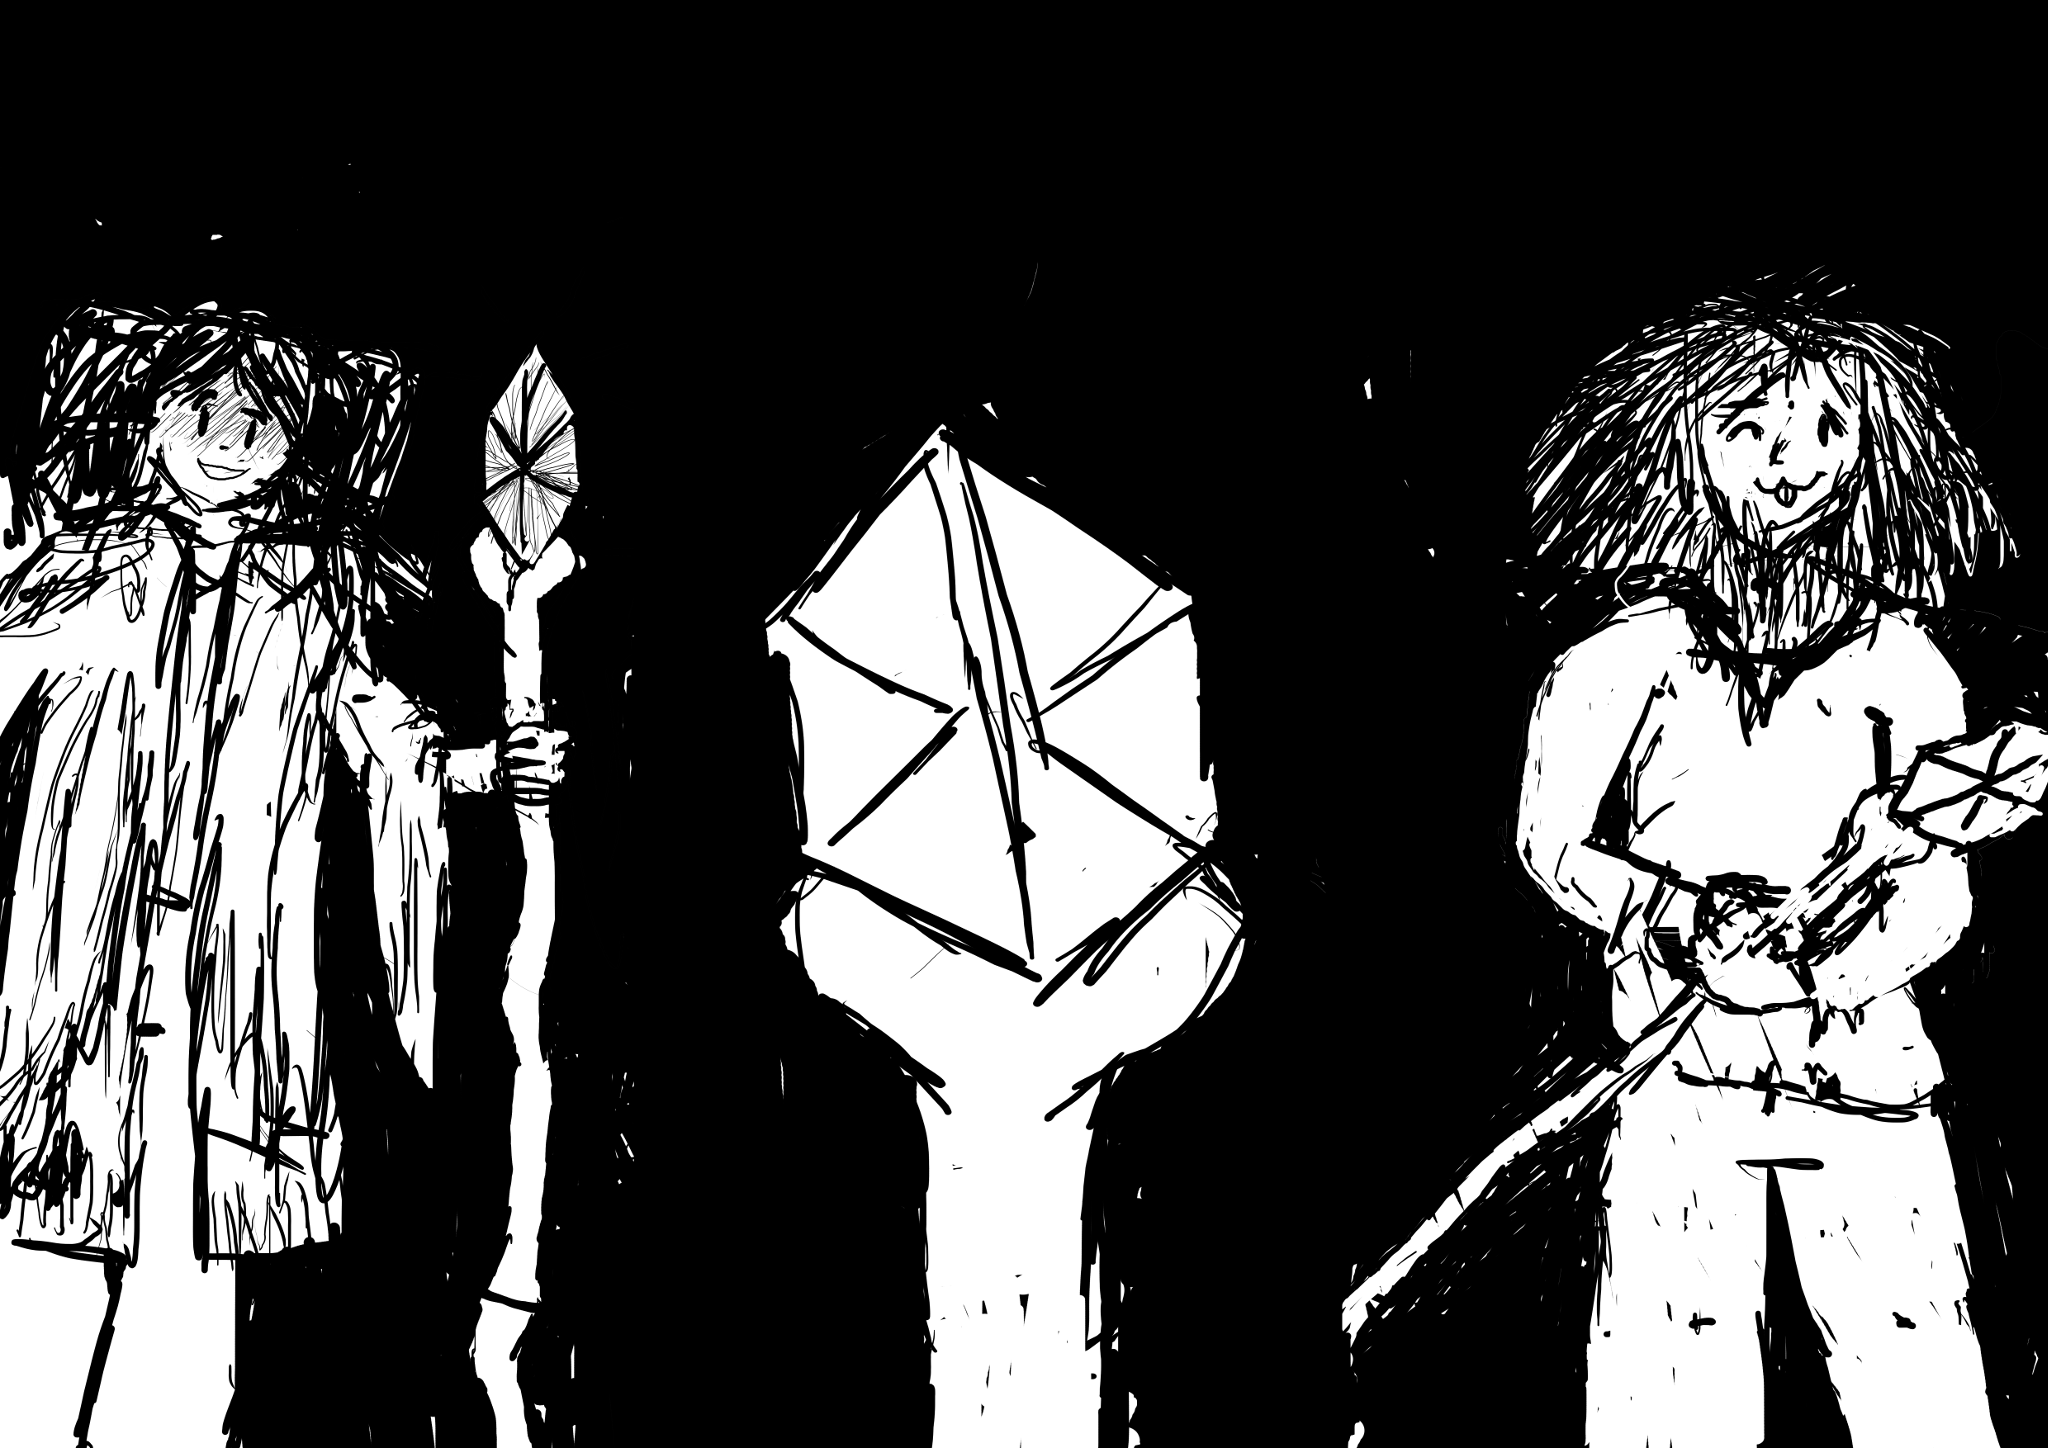
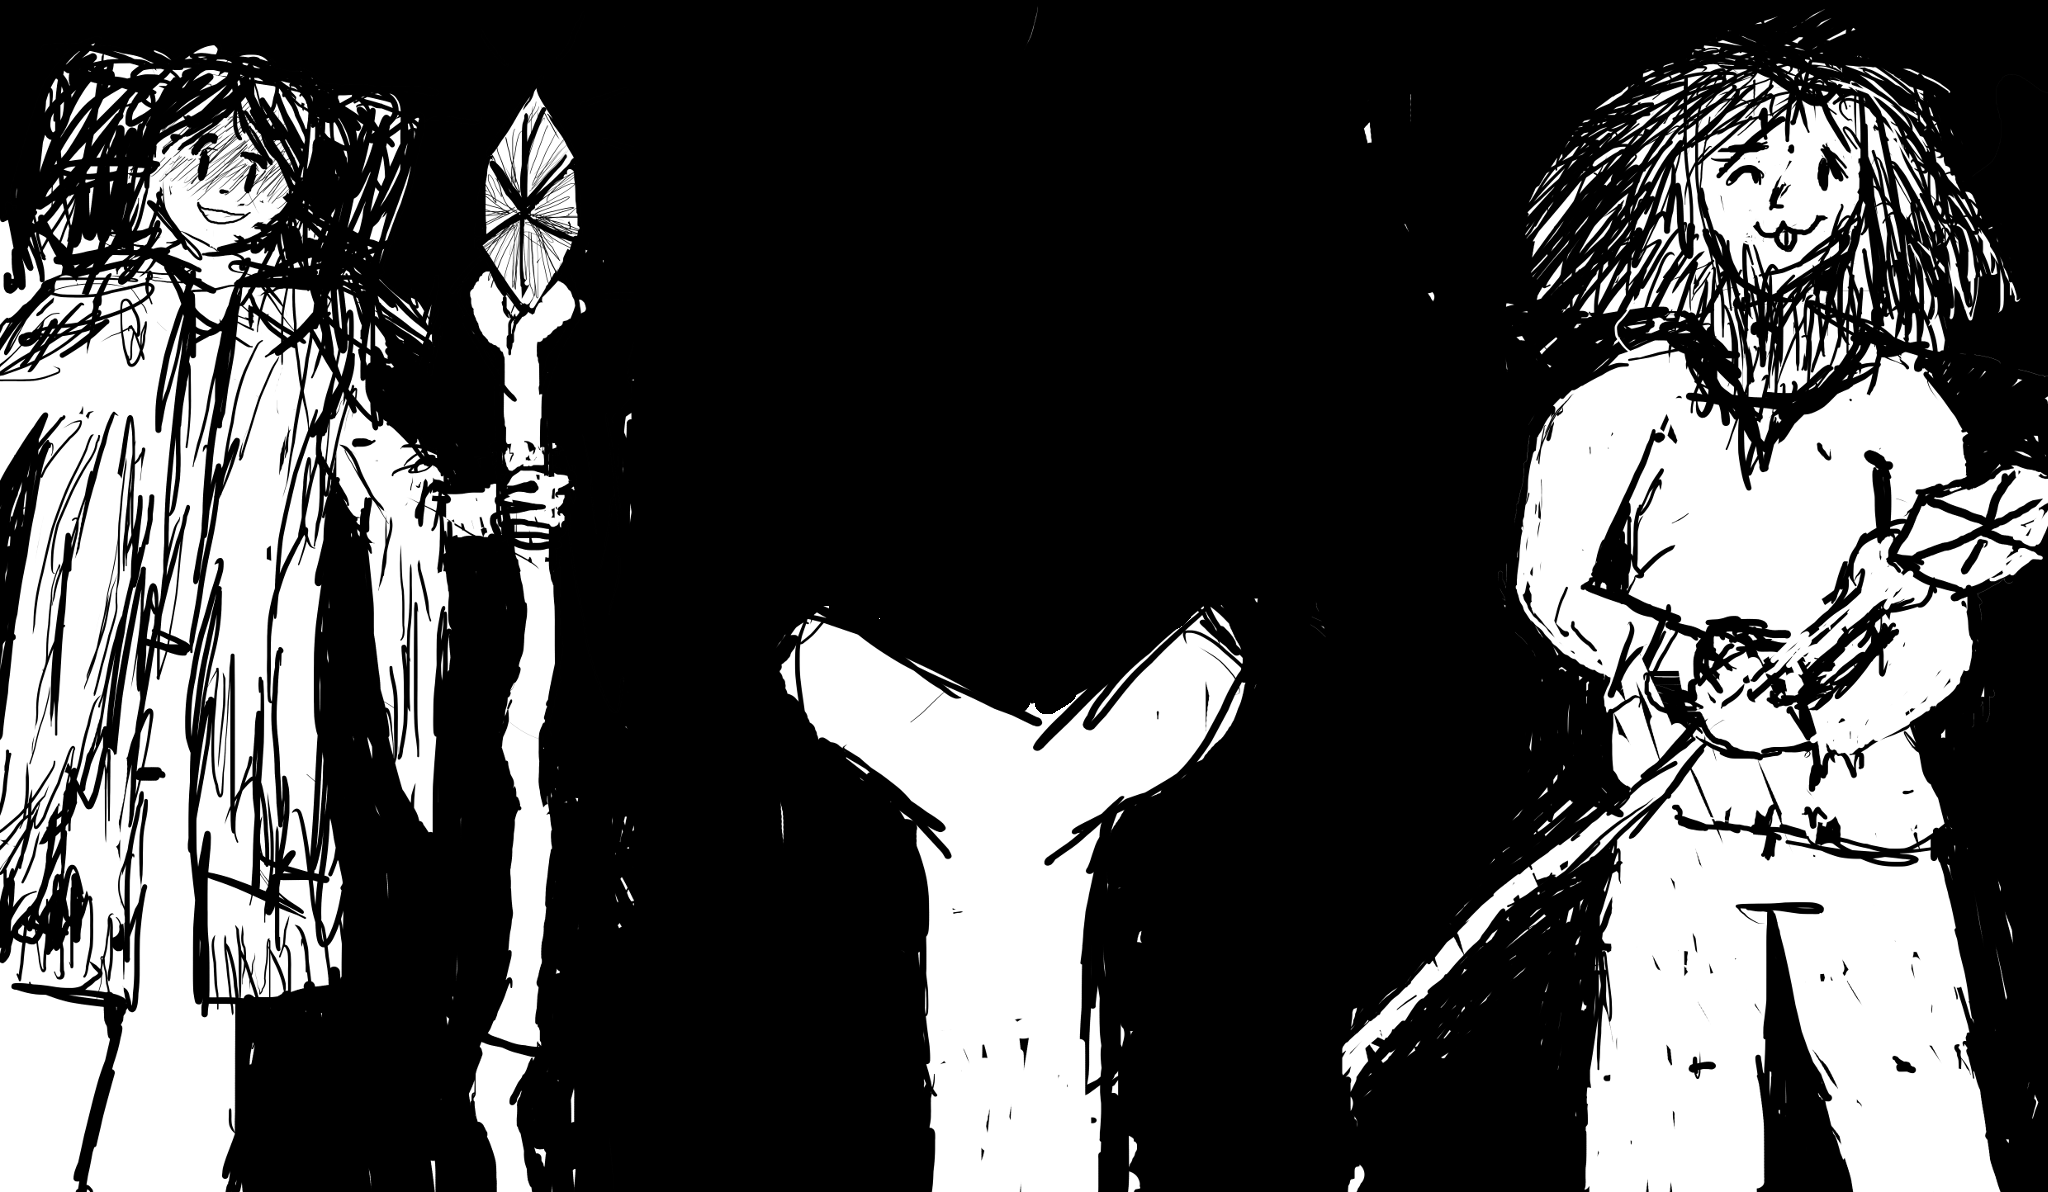
make it more flex ...

diff --git a/index.html b/index.html
@@ -8,32 +8,56 @@
     <meta name="title" content="hexagonia">
     <meta name="description" content="hexagonia">
     <link rel="stylesheet" type="text/css" href="css/base.css" media="screen" />
+    <link rel="stylesheet" type="text/css" href="css/desktop.css" media="screen and (min-width: 640px)" />
     <script type="text/javascript" src="js/hexagon.js"></script>
     <script type="text/javascript" src="js/game.js"></script>
     <script type="text/javascript" src="js/sound.js"></script>
     <script type="text/javascript" src="js/level.js"></script>
 </head>
 <body>
-<div id="content">
-    <div id="game">
-        <div id="toolbar">
-            <div id="nav">
-                <div>
-                    <button id="btnStart">New game</button><br />
-                    Player: <input id="radioeasy" type="radio" name="mode" navalue="easy" checked /> easy <input id="radiohard" type="radio" name="mode" value="hard" /> hard
-                </div>
-                <div>
-                    <img id="title" src="images/title.png" width="200" />
-                </div>
-                <div>
-                    <button id="btnReplay" disabled>Replay sound</button><br />
-                    Volume: <input id="elemSlider" type="range" min="0" max="10" step="1" />
-                </div>
-            </div>
-        </div>
-        <embed src="hexagon.svg" width="300" height="300" type="image/svg+xml" name="hexgon"></embed>
+
+<div class="flex">
+    <div>
+        <button id="btnStart">New game</button><br />
+        Player: <input id="radioeasy" type="radio" name="mode" navalue="easy" checked /> easy <input id="radiohard" type="radio" name="mode" value="hard" /> hard
+    </div>
+    <div><img id="title" src="images/title.png" width="100%" /></div>
+    <div>
+        <button id="btnReplay" disabled>Replay sound</button><br />
+        Volume: <input id="elemSlider" type="range" min="0" max="10" step="1" />
     </div>
 </div>
+
+<div class="game back" id="idgame">
+    <div style="flex: 3;"></div>
+    <div style="flex: 2;" class="gamesvg">
+        <svg version="1.1" xmlns="http://www.w3.org/2000/svg" xmlns:xlink="http://www.w3.org/1999/xlink" viewBox="0 0 300 300" width="100%" height="100%" preserveAspectRatio="xMinYMin meet">
+            <defs>
+                <style type="text/css">
+                    .triangle:hover { cursor: pointer; fill: white; }
+                </style>
+            </defs>
+            <g id="hexbase" transform="scale(1.5),translate(100,100)">
+                <g id="rot" transform="rotate(0)">
+                    <g transform="translate(-100,-100)">
+                        <polygon id="svg1" class="triangle" points="100,100 100,0 186,50" fill="blue" stroke="black" stroke-width="2"/>
+                        <polygon id="svg2" class="triangle" points="100,100 186,50 186,150" fill="cyan" stroke="black" stroke-width="2"/>
+                        <polygon id="svg3" class="triangle" points="100,100 186,150 100,200" fill="limegreen" stroke="black" stroke-width="2"/>
+                        <polygon id="svg4" class="triangle" points="100,100 100,200 14,150" fill="yellow" stroke="black" stroke-width="2"/>
+                        <polygon id="svg5" class="triangle" points="100,100 14,150 14,50" fill="orange" stroke="black" stroke-width="2"/>
+                        <polygon id="svg6" class="triangle" points="100,100 14,50 100,0" fill="red" stroke="black" stroke-width="2"/>
+                    </g>
+                </g>
+            </g>
+        </svg>
+    </div>
+    <div style="flex: 3;"></div>
+</div>
+
+<div>
+    created by Gisbert, Greta, Sarah &amp; Stephan
+</div>
+
 </body>
 </html>
 

diff --git a/js/game.js b/js/game.js
@@ -40,7 +40,6 @@ hexagon.createGame = function() {
         // play sound
         var index = game.map[evt.target.id];
         game.sound.playNote(index);
-        // console.log('play: ' + index);
 
         if (game.melody == null) {
             return;
@@ -52,14 +51,14 @@ hexagon.createGame = function() {
         if (game.compare()) {
             if (game.keys.length == game.melody.data.length) {
                 game.sound.playSuccess();
-                game.elementGame.className = 'gameyeah';
+                game.elementGame.className = 'game backyeah';
                 game.elementReplay.disabled = true;
             } else {
-                game.elementGame.className = '';
+                game.elementGame.className = 'game back';
             }
         } else {
             game.sound.playFail();
-            game.elementGame.className = 'gamefail';
+            game.elementGame.className = 'game backfail';
             game.keys = [];
         }
     };
@@ -90,47 +89,48 @@ hexagon.createGame = function() {
     };
 
     game.loopAngle = function() {
-        var elem = hexagon.svg.getElementById('rot');
+        var elem = document.getElementById('rot');
         elem.setAttributeNS(null, 'transform', 'rotate(' + game.angle + ')');
     };
 
     game.replay = function() {
-        console.log('replay');
         if (game.melody) {
             game.sound.playMelody(game.melody);
             game.keys = [];
-            game.elementGame.className = '';
+            game.elementGame.className = 'game back';
         }
     };
 
     game.startGame = function() {
-        console.log('startgame');
         game.keys = [];
         game.melody = game.sound.randomMelody();
-        console.log(game.melody.data);
+
+        // debug melody
+        //console.log(game.melody.data);
+
         game.sound.playMelody(game.melody);
         game.elementReplay.disabled = false;
-        game.elementGame.className = '';
+        game.elementGame.className = 'game back';
     };
 
     game.sound = hexagon.createSound();
 
-    var elem = hexagon.svg.getElementById('svg1');
+    var elem = document.getElementById('svg1');
     elem.addEventListener('click', game.click, false);
 
-    elem = hexagon.svg.getElementById('svg2');
+    elem = document.getElementById('svg2');
     elem.addEventListener('click', game.click, false);
 
-    elem = hexagon.svg.getElementById('svg3');
+    elem = document.getElementById('svg3');
     elem.addEventListener('click', game.click, false);
 
-    elem = hexagon.svg.getElementById('svg4');
+    elem = document.getElementById('svg4');
     elem.addEventListener('click', game.click, false);
 
-    elem = hexagon.svg.getElementById('svg5');
+    elem = document.getElementById('svg5');
     elem.addEventListener('click', game.click, false);
 
-    elem = hexagon.svg.getElementById('svg6');
+    elem = document.getElementById('svg6');
     elem.addEventListener('click', game.click, false);
 
     return game;

diff --git a/css/base.css b/css/base.css
@@ -4,27 +4,31 @@
     margin: 0;
     border: 0;
     padding: 0;
-}
-
-html {
-    font-family: "Courier New", Courier, monospace;
-    font-size: 10pt;
-    font-weight: normal;
+    text-align: center;
 }
 
 body {
     background-color: #000;
     color: white;
+    font-family: "Courier New", Courier, monospace;
+    font-size: 10pt;
+    font-weight: normal;
 }
+
+/* buttons */
 
 button {
     background-color: #000;
     border: 1px solid #fff;
     cursor: pointer;
     color: #fff;
-    width: 200px;
-    height: 30px;
-    margin: 4px;
+    width: 112px;
+    height: 24px;
+    margin: 2px;
+
+    font-family: "Courier New", Courier, monospace;
+    font-size: 8pt;
+    font-weight: normal;
 }
 
 button:hover {
@@ -39,62 +43,45 @@ button:disabled {
     cursor: auto;
 }
 
-h1 {
-    margin-top: 32px;
-    text-align: center;
-}
-
 input[type="radio"] {
     vertical-align: middle;
 }
 
 input[type="range"] {
     vertical-align: middle;
+    width: 72px;
 }
 
+/* game */
 
-#content {
-    text-align: center;
-}
-
-#game {
-    background-color: #000;
-    background-image: url(../images/back2048.png);
-    background-size: cover;
-
-    margin: 0px auto;
-
-    width: 960px;
-    height: 678px;
-}
-
-.gameyeah {
-    background-image: url(../images/yeah2048.png) !important;
-}
-
-.gamefail {
-    background-image: url(../images/fail2048.png) !important;
-}
-
-#toolbar {
-    height: 150px;
-    padding: 10px;
-}
-
-#title {
-    margin-top: 20px;
-}
-
-#nav {
+.flex {
     display: flex;
+    height: 100px;
 }
 
-#nav div {
+.flex div {
     flex: 1;
 }
 
-/*#graphic {
-    margin:0px auto;
-    margin-top: 64px;
-    width: 200px;
-}*/
+.game {
+    background-size: cover;
+    display: flex;
+    width: 100vw;
+    height: 50vw;
+}
+
+.back {
+    background-image: url(../images/back2048.png) !important;
+}
+
+.backyeah {
+    background-image: url(../images/yeah2048.png) !important;
+}
+
+.backfail {
+    background-image: url(../images/fail2048.png) !important;
+}
+
+.gamesvg {
+    margin-top: 10vw;
+}

diff --git a/js/hexagon.js b/js/hexagon.js
@@ -24,7 +24,7 @@ window.onload = function() {
     elem = document.getElementById('radiohard');
     elem.onclick = g.changemode;
 
-    elem = document.getElementById('game');
+    elem = document.getElementById('idgame');
     g.elementGame = elem;
 
     requestAnimationFrame(g.loop);

diff --git a/css/desktop.css b/css/desktop.css
@@ -1,0 +1,17 @@
+@charset "utf-8";
+
+body {
+    font-size: 14pt;
+}
+
+button {
+    width: 200px;
+    height: 30px;
+    margin: 4px;
+
+    font-size: 14pt;
+}
+
+input[type="range"] {
+    width: 144px;
+}
